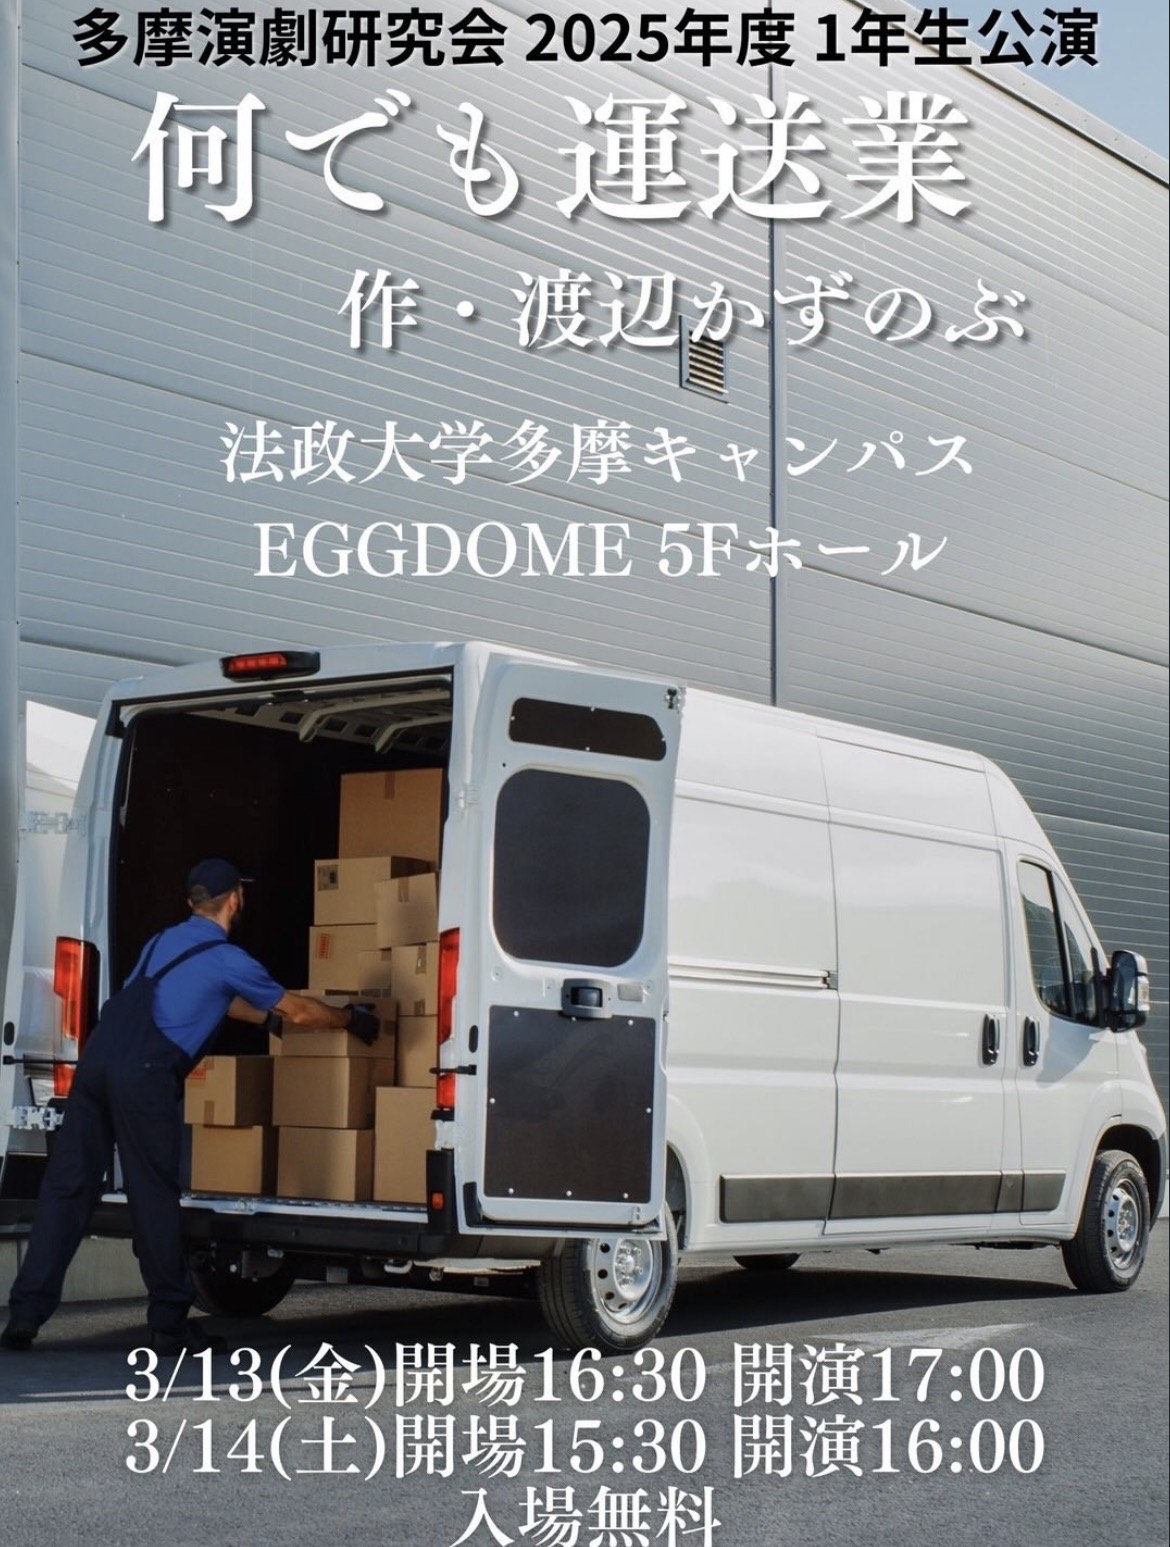
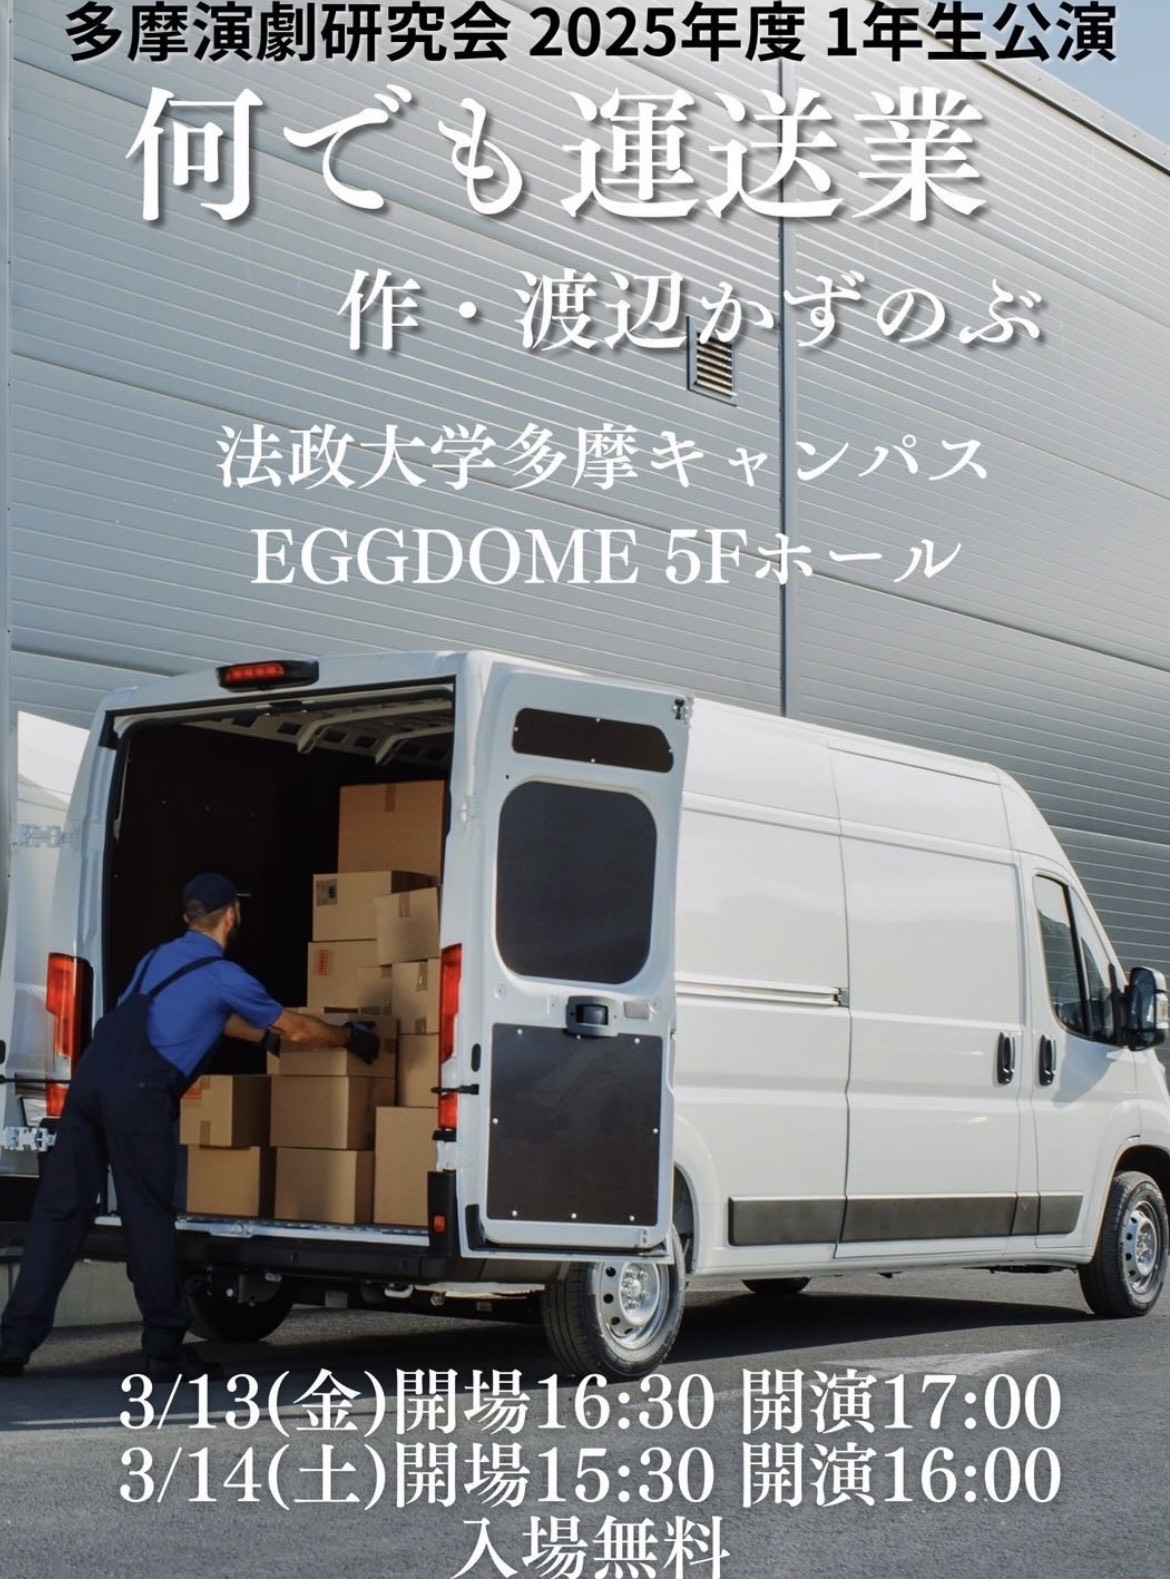
Add files via upload

diff --git a/script.js b/script.js
@@ -41,6 +41,22 @@ const performances = [
       label:"新歓公演「取り残された館」(YouTube)"
     }
   },
+        {
+    id: "25ichikou",
+    title: "一年生公演「なんでも運送業」",
+    year: "2025年度",
+    date: "2026年3月13日、14日",
+    place: "法政大学多摩キャンパス EGG DOME 5階ホール",
+    poster: "assets/poster/25kouen/25ichikou.jpg",
+    shortStory:
+      "ここは何でも運送業。大手が引き受けない「ワケあり」の荷物も配達します。秘密は必ず守りますから安心してください……",
+    story:
+      "ここは何でも運送業。大手が引き受けない「ワケあり」の荷物も配達します。秘密は必ず守りますから安心してください……",
+    youtube: {
+      url:"https://youtu.be/sAvgP-MDXlI?si=XL4ps5NXOP8dfg-C",
+      label:"一年生公演「なんでも運送業」(YouTube)"
+    }
+  },
   {
     id: "25shinkan",
     title: "新歓公演「カリカチュアの少女A」",
@@ -85,8 +101,8 @@ const performances = [
     story:
       "ここは、都内某所にある便利屋<STEP>。若者5人のみの零細企業で、引っ越し、ゴミ屋敷の掃除、浮気調査など、様々な雑務をこなす。しかし、どうやら決して公にすることのできない「裏の仕事」を引き受けているようで......",
     youtube: {
-      url:"",
-      label:""
+      url:"https://www.youtube.com/watch?v=Ay-VZy-OuEY",
+      label:"冬公演「STEP!」(YouTube)"
     }
   }
 ];